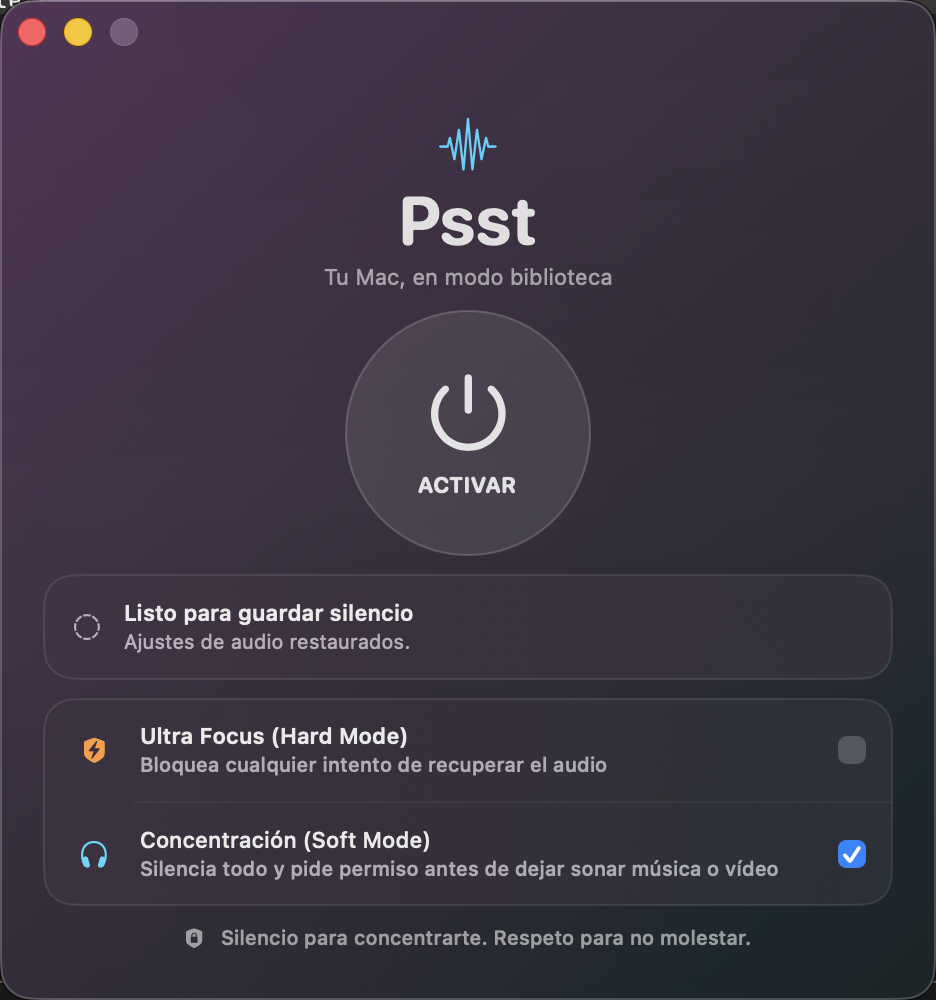
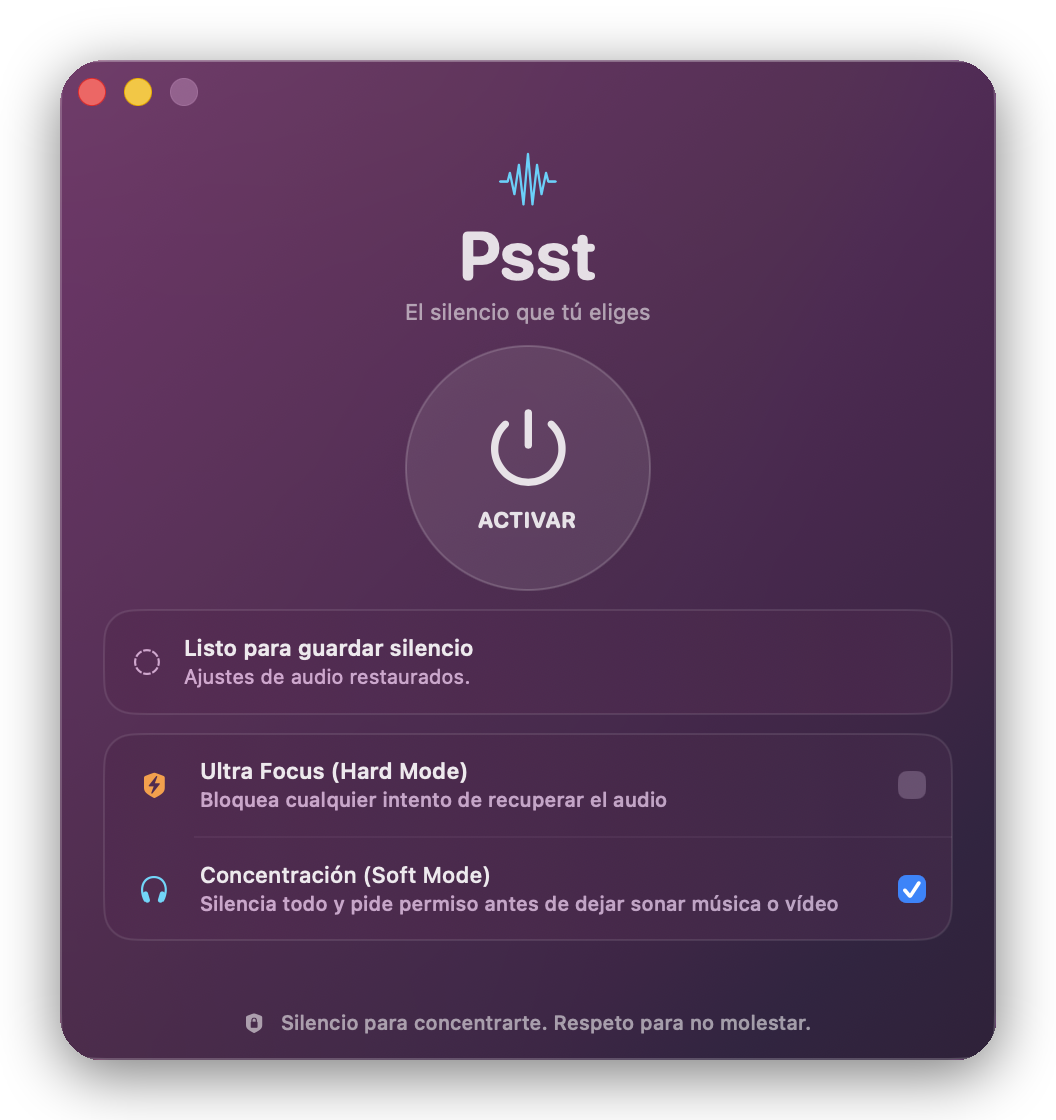
Pule textos, panel Acerca de y README para v1.4.0
Corrige textos de la interfaz que seguían fijos en "modo biblioteca"
(subtítulo, etiqueta de accesibilidad del botón principal y menú de
la barra de menús) para que reflejen el modo realmente seleccionado,
la versión desactualizada en "Acerca de Psst" y sus créditos, y añade
aire entre las opciones y el pie de la ventana.

Reescribe el README para quien solo quiere descargar la app: pasos de
instalación con el aviso de Gatekeeper explicado, primeros pasos,
preguntas frecuentes y mejor jerarquía visual. Sustituye la captura
por una versión con esquinas redondeadas y sombra suave.

diff --git a/Sources/Psst/ContentView.swift b/Sources/Psst/ContentView.swift
@@ -36,6 +36,7 @@ struct ContentView: View {
                 silenceButton
                 statusCard
                 optionsCard
+                Spacer(minLength: 10)
                 safetyFooter
             }
             .padding(.horizontal, 22)
@@ -64,7 +65,7 @@ struct ContentView: View {
                 .font(.system(size: 24, weight: .light))
                 .foregroundStyle(silence.isActive ? .mint : .cyan)
             Text("Psst").font(.system(size: 34, weight: .bold, design: .rounded))
-            Text("Tu Mac, en modo biblioteca").font(.subheadline).foregroundStyle(.secondary)
+            Text("El silencio que tú eliges").font(.subheadline).foregroundStyle(.secondary)
         }
     }
 
@@ -87,7 +88,9 @@ struct ContentView: View {
         .buttonStyle(.plain)
         .disabled(silence.isBusy)
         .opacity(silence.isBusy ? 0.55 : 1)
-        .accessibilityLabel(silence.isActive ? "Desactivar modo biblioteca" : "Activar modo biblioteca")
+        .accessibilityLabel(silence.isActive
+            ? "Desactivar \(silence.focusMode.displayName)"
+            : "Activar \(silence.focusMode.displayName)")
     }
 
     private var statusCard: some View {
@@ -200,7 +203,7 @@ struct MenuBarView: View {
         VStack(alignment: .leading, spacing: 8) {
             Text(silence.isActive ? statusTitle : "Psst está en espera")
                 .font(.headline)
-            Button(silence.isActive ? "Desactivar" : "Activar modo biblioteca") {
+            Button(silence.isActive ? "Desactivar" : "Activar \(silence.focusMode.displayName)") {
                 Task { await silence.toggle() }
             }
             .disabled(silence.isBusy)

diff --git a/Sources/Psst/PsstApp.swift b/Sources/Psst/PsstApp.swift
@@ -17,9 +17,9 @@ struct PsstApp: App {
                 Button("Acerca de Psst") {
                     NSApplication.shared.orderFrontStandardAboutPanel(options: [
                         .applicationName: "Psst",
-                        .applicationVersion: "1.3.0",
+                        .applicationVersion: "1.4.0",
                         .credits: NSAttributedString(
-                            string: "Silencio seguro para estudiar y trabajar sin molestar.",
+                            string: "Silencio para concentrarte. Respeto para no molestar.",
                             attributes: [.foregroundColor: NSColor.secondaryLabelColor]
                         )
                     ])

diff --git a/Sources/Psst/Models.swift b/Sources/Psst/Models.swift
@@ -46,4 +46,12 @@ enum FocusMode: String {
     case normal
     case soft
     case hard
+
+    var displayName: String {
+        switch self {
+        case .normal: return "modo biblioteca"
+        case .soft: return "Concentración"
+        case .hard: return "Ultra Focus"
+        }
+    }
 }

diff --git a/README.md b/README.md
@@ -1,70 +1,105 @@
 <div align="center">
-  <img src="docs/images/app-icon.png" width="150" alt="Icono de Psst">
+  <img src="docs/images/app-icon.png" width="140" alt="Icono de Psst">
 
   # Psst — Mac Silence
 
-  **Tu Mac, en modo biblioteca: menos interrupciones y menos ruido.**
+  ### El silencio que tú eliges 🤫
+
+  **Menos interrupciones, menos ruido, cero configuración complicada.**
 
   [![macOS CI](https://github.com/Fernando-Marcos/psst-mac-silence/actions/workflows/ci.yml/badge.svg)](https://github.com/Fernando-Marcos/psst-mac-silence/actions/workflows/ci.yml)
-  [![Última versión](https://img.shields.io/github/v/release/Fernando-Marcos/psst-mac-silence?label=versi%C3%B3n)](https://github.com/Fernando-Marcos/psst-mac-silence/releases/latest)
+  [![Última versión](https://img.shields.io/github/v/release/Fernando-Marcos/psst-mac-silence?label=versi%C3%B3n&color=5AC8FA)](https://github.com/Fernando-Marcos/psst-mac-silence/releases/latest)
   [![Licencia MIT](https://img.shields.io/badge/licencia-MIT-blue.svg)](LICENSE)
   ![macOS 13+](https://img.shields.io/badge/macOS-13%2B-black?logo=apple)
   ![App Sandbox](https://img.shields.io/badge/Apple-App%20Sandbox-success?logo=apple)
+
+  ### [⬇ Descargar la última versión](https://github.com/Fernando-Marcos/psst-mac-silence/releases/latest)
+
+  [Cómo funciona](#los-tres-modos) · [Primeros pasos](#primeros-pasos) · [Preguntas frecuentes](#preguntas-frecuentes) · [Seguridad](#seguridad-apple-por-diseño)
 </div>
 
-Psst es una utilidad nativa, pequeña y transparente para preparar el Mac antes de estudiar, opositar o trabajar en un espacio silencioso. Elige entre tres modos: **biblioteca** silencia una vez y no vigila nada más, **Concentración (Soft Mode)** silencia todo y pide permiso antes de dejar sonar música o vídeo, y **Ultra Focus (Hard Mode)** bloquea el audio sin excepciones hasta que desactives Psst. Al desactivarla, restaura siempre el estado anterior.
+<br>
+
+Psst es una utilidad nativa, pequeña y transparente para preparar el Mac antes de estudiar, opositar o trabajar en un espacio silencioso. Elige entre tres modos: 🏛 **biblioteca** silencia una vez y no vigila nada más, 🎧 **Concentración (Soft Mode)** silencia todo y pide permiso antes de dejar sonar música o vídeo, y 🛡 **Ultra Focus (Hard Mode)** bloquea el audio sin excepciones hasta que desactives Psst. Al desactivarla, restaura siempre el estado anterior de tu audio, tal cual estaba.
 
 <p align="center">
-  <img src="docs/images/app-window-v1.4.0.png" width="468" alt="Ventana compacta y translúcida de Psst 1.4.0 con Concentración (Soft Mode) activado">
+  <img src="docs/images/app-window-v1.4.0.png" width="460" alt="Ventana compacta y translúcida de Psst 1.4.0 con Concentración (Soft Mode) activado">
 </p>
 
-## Instalación
+<div align="center">
 
-1. Descarga el ZIP universal desde [la última versión](https://github.com/Fernando-Marcos/psst-mac-silence/releases/latest).
-2. Descomprímelo y mueve `Psst.app` a **Aplicaciones**.
-3. Abre Psst. Las compilaciones de GitHub con firma ad hoc pueden requerir clic derecho → **Abrir** la primera vez.
+🪟 Ventana nativa y translúcida &nbsp;•&nbsp; 🔒 App Sandbox, sin permisos raros &nbsp;•&nbsp; 🌐 Cero conexión a Internet &nbsp;•&nbsp; ↩ Siempre reversible
 
-No pide contraseña de administrador, cuenta ni conexión a Internet. Es un único binario universal (Apple Silicon e Intel) sin dependencias.
+</div>
 
-## Los tres modos
+## Instalación 📥
+
+1. **Descarga** el ZIP universal desde [la última versión](https://github.com/Fernando-Marcos/psst-mac-silence/releases/latest): en *Assets*, al final de la página, es el único archivo `.zip`.
+2. **Descomprímelo** (doble clic) y arrastra `Psst.app` a tu carpeta **Aplicaciones**.
+3. **Ábrelo**: haz **clic derecho sobre `Psst.app` → Abrir** y confirma en el aviso. Solo hace falta la primera vez.
+
+> 💬 **¿Por qué el clic derecho?** Psst se distribuye con firma *ad hoc* (gratuita, sin cuenta de desarrollador de Apple) en lugar de pasar por notarización. macOS avisa de que viene de un "desarrollador no identificado" aunque el código es público y auditable en este mismo repositorio. Si prefieres verificarlo tú mismo antes de abrirlo, tienes la sección [Compilar desde el código fuente](#compilar-desde-el-código-fuente).
+>
+> Si macOS bloquea la apertura del todo, ve a **Ajustes del Sistema → Privacidad y seguridad** y pulsa **Abrir de todos modos** junto al aviso sobre Psst.
+
+No pide contraseña de administrador, cuenta ni conexión a Internet. Es un único binario universal (Apple Silicon e Intel) sin dependencias que instalar. ✅
+
+## Primeros pasos 🚀
+
+1. Abre Psst desde **Aplicaciones** o la barra de menús (el icono de altavoz).
+2. Elige el modo antes de activar: dos interruptores debajo del botón principal, **Ultra Focus** y **Concentración**. Si dejas ambos apagados, se activa el modo biblioteca. Solo puedes cambiarlos con Psst inactivo.
+3. Pulsa el botón grande **ACTIVAR**. Psst guarda tu volumen actual y silencia el equipo al instante.
+4. Cuando termines, pulsa **DESACTIVAR**. Psst restaura exactamente el volumen y el estado de silencio que tenías antes de activarla.
+
+💡 Si cierras Psst por error mientras está activa, al volver a abrirla retoma la vigilancia donde la dejaste sin perder tu configuración original.
+
+## Los tres modos 🎚
 
 | Modo | Qué hace | Cuándo usarlo |
 | --- | --- | --- |
-| **Biblioteca** | Silencia el equipo una vez al activarse. Sin vigilancia continua. | Silencio puntual y reversible, sin más. |
-| **Concentración (Soft Mode)** | Silencia todo y vigila el audio; si detecta un intento de reproducir sonido, pregunta antes de dejarlo sonar. | Estudiar o trabajar escuchando música o un podcast con auriculares. |
-| **Ultra Focus (Hard Mode)** | Silencia todo y bloquea sin preguntar cualquier intento de recuperar el sonido. | Máxima protección contra ruido accidental en espacios compartidos. |
+| 🏛 **Biblioteca** | Silencia el equipo una vez al activarse. Sin vigilancia continua. | Silencio puntual y reversible, sin más. |
+| 🎧 **Concentración** (Soft Mode) | Silencia todo y vigila el audio; si detecta un intento de reproducir sonido, pregunta antes de dejarlo sonar. | Estudiar o trabajar escuchando música o un podcast con auriculares. |
+| 🛡 **Ultra Focus** (Hard Mode) | Silencia todo y bloquea sin preguntar cualquier intento de recuperar el sonido. | Máxima protección contra ruido accidental en espacios compartidos. |
 
 Los tres modos son excluyentes entre sí y solo pueden cambiarse con Psst inactivo.
 
-### Concentración (Soft Mode) en detalle
+<details>
+<summary><strong>🎧 Concentración (Soft Mode) en detalle</strong></summary>
+<br>
 
 - Al activar Psst, silencia todas las salidas compatibles, igual que el modo biblioteca.
 - Comprueba la actividad de audio cada 400 ms, igual que Ultra Focus.
 - Cuando detecta un intento de reproducir sonido, lo mantiene en silencio y muestra un aviso pidiendo permiso antes de que se oiga nada.
 - Si lo permites, Psst restaura el audio y deja de vigilarlo hasta que desactives la app; si eliges mantener el silencio, sigue bloqueando futuros intentos como Ultra Focus.
 
-### Ultra Focus (Hard Mode) en detalle
+</details>
+
+<details>
+<summary><strong>🛡 Ultra Focus (Hard Mode) en detalle</strong></summary>
+<br>
 
 - Comprueba cada 400 ms que volumen y mute continúan protegidos.
 - Vuelve a silenciar cualquier salida compatible que recupere el sonido, sin pedir confirmación.
 - Muestra un aviso visible sin identificar ni inspeccionar la aplicación que reproduce audio.
 - Aparece activado por defecto para conservar la protección de versiones anteriores.
 
-## Por qué instalar Psst
+</details>
 
-### Para estudiantes
+## Por qué instalar Psst 💡
+
+### Para estudiantes 🎓
 
 - Ultra Focus evita que Spotify, un vídeo, una web o una alerta recuperen el sonido por accidente en clase o en la biblioteca.
 - Concentración te deja estudiar con música o un podcast con cascos: silencia el resto y solo pide permiso cuando detecta un intento de reproducir sonido.
 - Convierte el inicio de una sesión de estudio en un ritual inmediato y fácil de recordar.
 - Ocupa poco espacio, permanece accesible en la barra de menús y no añade distracciones.
 
-### Para opositores
+### Para opositores 📚
 
 - Reduce pasos repetitivos antes de cada bloque largo de estudio.
 - Restaura el audio previo al terminar, sin obligarte a recordar cómo estaba configurado.
 
-### Para bibliotecas y espacios compartidos
+### Para bibliotecas y espacios compartidos 🏛
 
 - El modo biblioteca aplica un silencio reversible sin vigilancia continua.
 - Ultra Focus mantiene silenciadas las salidas compatibles mediante Core Audio durante toda la sesión.
@@ -72,11 +107,11 @@ Los tres modos son excluyentes entre sí y solo pueden cambiarse con Psst inacti
 - Ayuda a evitar interrupciones involuntarias sin tocar el control térmico del equipo.
 - No necesita contraseña de administrador, cuenta, Internet ni procesos en segundo plano fuera de la app.
 
-## Diseño compacto y nativo
+## Diseño compacto y nativo 🪟
 
 La ventana fija mide 468 × 500 puntos con el marco de macOS: es prácticamente cuadrada y no tiene desplazamiento. Usa materiales translúcidos de AppKit para integrarse con el escritorio y respeta Reducir transparencia de macOS. Psst también está disponible desde la barra de menús.
 
-## Seguridad Apple por diseño
+## Seguridad Apple por diseño 🔒
 
 - **App Sandbox activo** con un único entitlement: `com.apple.security.app-sandbox`.
 - **Sin privilegios de administrador**, AppleScript, Apple Events, comandos de shell o procesos auxiliares.
@@ -88,11 +123,48 @@ Psst bloquea el **sonido audible** de la salida predeterminada compatible. Por s
 
 La configuración cumple la base técnica del sandbox exigido por Apple. Una publicación en Mac App Store todavía requiere firma de distribución, perfil, ficha de App Store Connect y revisión de Apple.
 
-## Ventiladores y bajo consumo
+## Ventiladores y bajo consumo 🌬
 
 Psst no baja directamente las revoluciones de los ventiladores. Apple no publica una API para ello, y forzar menos refrigeración podría sobrecalentar el Mac. macOS conserva siempre el control térmico y decide cuándo activar el Bajo consumo.
 
-## Compilar y verificar
+## Preguntas frecuentes ❓
+
+<details>
+<summary><strong>¿Por qué macOS dice que Psst es de un "desarrollador no identificado"?</strong></summary>
+<br>
+
+Porque se distribuye con firma ad hoc en lugar de pasar por la notarización de pago de Apple. El código fuente es público: puedes revisarlo o compilarlo tú mismo (ver [Compilar desde el código fuente](#compilar-desde-el-código-fuente)) antes de confiar en el binario descargado.
+</details>
+
+<details>
+<summary><strong>¿Psst escucha o graba lo que reproduzco?</strong></summary>
+<br>
+
+No. Solo consulta si hay actividad de audio y el nivel de volumen/mute mediante Core Audio; nunca accede a las muestras de sonido ni sabe qué app o contenido las genera.
+</details>
+
+<details>
+<summary><strong>¿Funciona con AirPods u otros auriculares Bluetooth?</strong></summary>
+<br>
+
+Sí, siempre que el dispositivo exponga control de volumen o mute por software. Algunas salidas digitales o externas no lo permiten; en ese caso Psst te lo indica en pantalla en lugar de fingir que las ha silenciado.
+</details>
+
+<details>
+<summary><strong>¿Qué pasa si el Mac se reinicia o cierro Psst a la fuerza mientras está activa?</strong></summary>
+<br>
+
+Al volver a abrirla, si sigue marcada como activa, retoma la vigilancia y mantiene el silencio sin pedirte nada. Tu configuración de audio original queda guardada hasta que la desactives.
+</details>
+
+<details>
+<summary><strong>¿Baja las revoluciones del ventilador o el consumo?</strong></summary>
+<br>
+
+No de forma directa: consulta la sección [Ventiladores y bajo consumo](#ventiladores-y-bajo-consumo).
+</details>
+
+## Compilar desde el código fuente 🛠
 
 Necesitas macOS 13 o posterior y las Command Line Tools de Apple.
 
@@ -105,9 +177,9 @@ codesign -dvvv --entitlements - build/Psst.app
 open build/Psst.app
 ```
 
-El binario generado es universal para Apple Silicon e Intel. La integración continua valida pruebas, firma, sandbox y ambas arquitecturas.
+El binario generado es universal para Apple Silicon e Intel. La integración continua valida pruebas, firma, sandbox y ambas arquitecturas en cada cambio.
 
-## Documentación
+## Documentación 📚
 
 - [Arquitectura y decisiones de seguridad](docs/ARCHITECTURE.md)
 - [Privacidad](PRIVACY.md)
@@ -115,6 +187,12 @@ El binario generado es universal para Apple Silicon e Intel. La integración con
 - [Cómo contribuir](CONTRIBUTING.md)
 - [Historial de cambios](CHANGELOG.md)
 
-## Licencia
+## Licencia 📄
 
 Psst se distribuye bajo la [licencia MIT](LICENSE).
+
+<div align="center">
+
+<sub>Hecho con 🤫 por <a href="https://github.com/Fernando-Marcos">Fernando Marcos</a></sub>
+
+</div>

diff --git a/CHANGELOG.md b/CHANGELOG.md
@@ -7,6 +7,8 @@
 - Los tres modos (biblioteca, Concentración, Ultra Focus) pasan a ser mutuamente excluyentes.
 - Elimina la integración con Atajos (automatización de No molestar y Bajo consumo): reducía la superficie del proyecto sin aportar al nuevo modelo de modos.
 - Actualiza el pie de la ventana principal a "Silencio para concentrarte. Respeto para no molestar."
+- Corrige textos de la interfaz que seguían mencionando únicamente "modo biblioteca" (subtítulo, etiqueta de accesibilidad del botón principal y menú de la barra de menús) para que reflejen el modo realmente seleccionado.
+- Corrige la versión mostrada en "Acerca de Psst", que seguía en 1.3.0.
 
 ## [1.3.0] - 2026-08-17
 

diff --git a/docs/releases/v1.4.0.md b/docs/releases/v1.4.0.md
@@ -10,6 +10,7 @@ Esta versión añade un tercer modo pensado para estudiar o concentrarse escucha
 - Los modos biblioteca, Concentración y Ultra Focus pasan a ser mutuamente excluyentes.
 - Elimina la integración con Atajos (automatización de No molestar y Bajo consumo).
 - Actualiza el pie de la ventana principal a "Silencio para concentrarte. Respeto para no molestar."
+- Corrige textos de la interfaz que seguían mencionando únicamente "modo biblioteca" para que reflejen el modo realmente seleccionado, y la versión mostrada en "Acerca de Psst".
 
 ## Seguridad y límites
 
